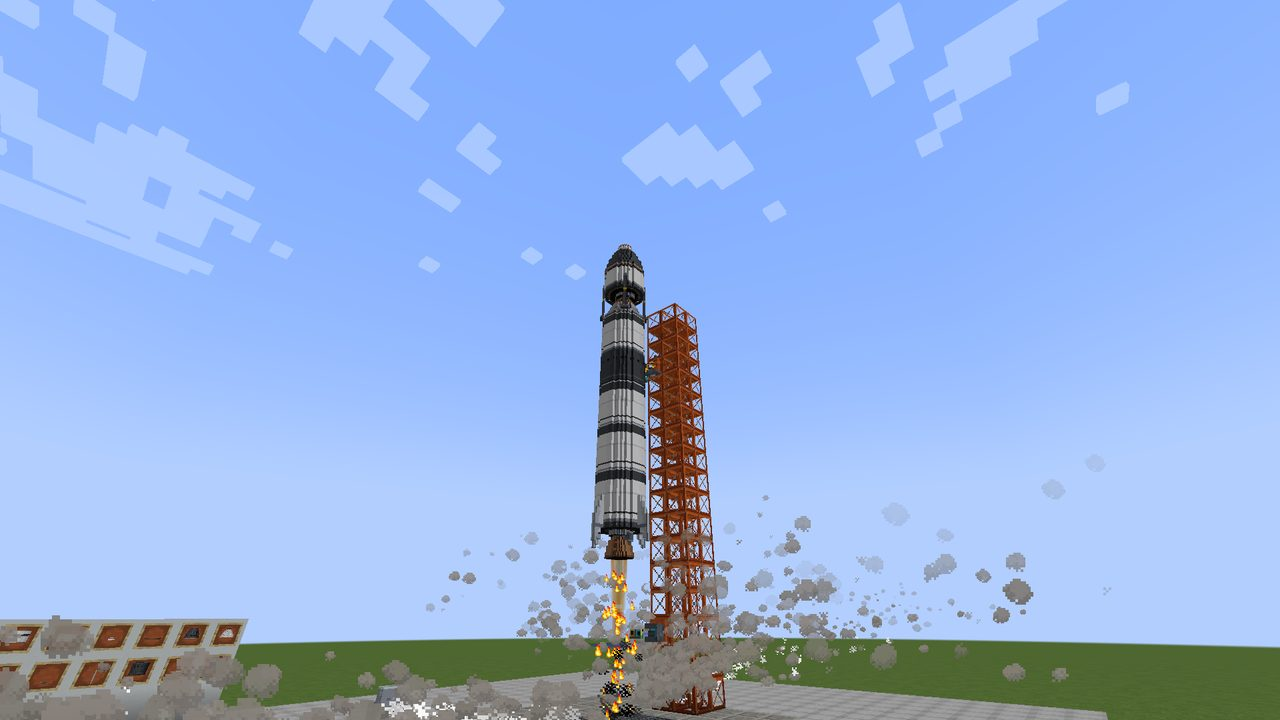
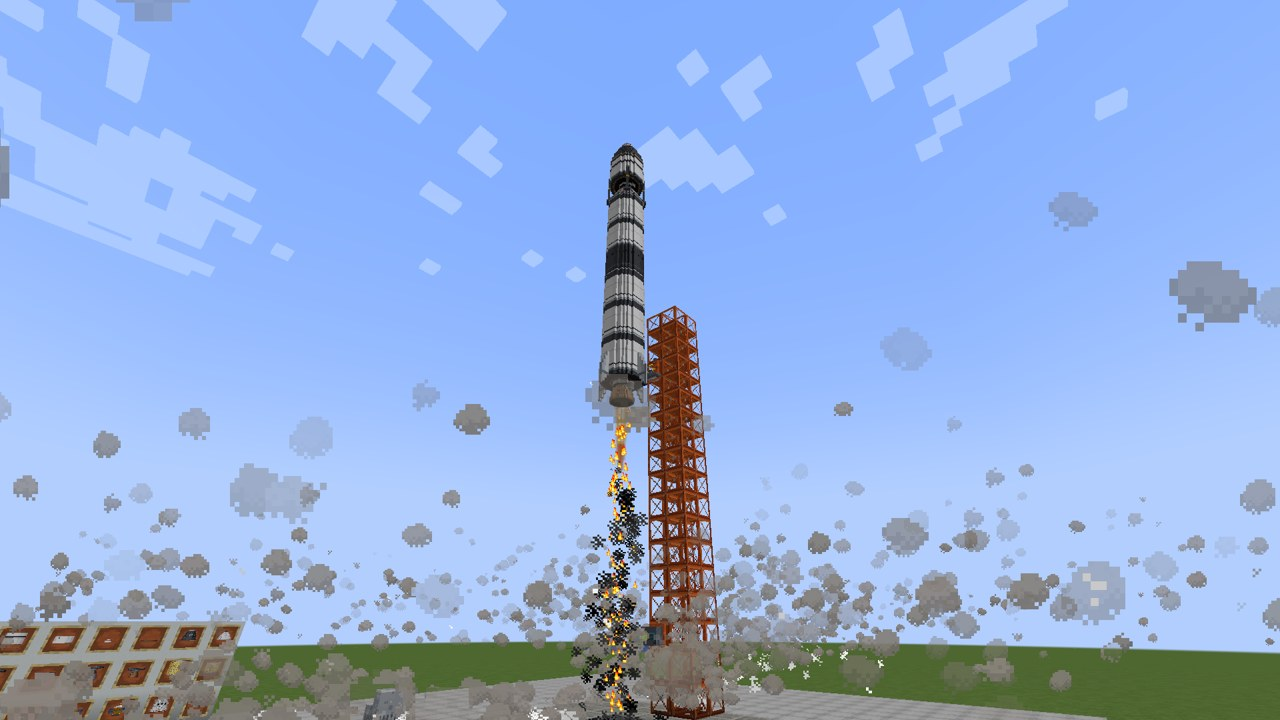
Rocketry: launch drama (pad steam, thrust shake, max-Q, staging jolt, rising roar)
- Engines lit on the pad flash the deluge to steam: billowing smoke and white puffs
  that grow as the engines spool up.
- Camera shake follows thrust: spool-up rumble, a liftoff kick, rumble that fades
  with the air, a short shake through max-Q and a jolt plus a ring of smoke at each
  stage separation. Off with the cinematic camera setting.
- Engine roar builds through the spool-up and fades as the air thins.
- The smoke column trails the rocket instead of rising above the nose.
- Fix: locations were compared by identity on the client, so Earth was treated as
  airless and launch smoke, steam, LOX venting and ground shake never showed.
- Showcase: ignition, liftoff and ascent shots retaken; launch before/after sheet.

diff --git a/src/main/java/com/pizzaparker07/spacebreaker/client/rocketry/RocketClientEvents.java b/src/main/java/com/pizzaparker07/spacebreaker/client/rocketry/RocketClientEvents.java
@@ -73,18 +73,17 @@ public final class RocketClientEvents {
                 continue;
             }
             effects(level, rocket, quality);
+            staging(level, rocket, rocket == ridden, quality);
             loop(mc, rocket, SOUNDS, EngineSound.Kind.ENGINE);
             loop(mc, rocket, ENTRY_SOUNDS, EngineSound.Kind.REENTRY);
             if (rocket.burning()) {
                 boolean riding = rocket == ridden;
                 double ground = level.getHeight(Heightmap.Types.MOTION_BLOCKING, rocket.getBlockX(), rocket.getBlockZ());
-                boolean nearGround = rocket.getY() - ground < 60 && rocket.location() == Location.EARTH_SURFACE;
-                float s = riding ? (rocket.state() == FlightState.ASCENT && rocket.timer() < 300 ? 1.2F : 0.5F) : 0;
-                if (nearGround) {
-                    s = Math.max(s, (float) Mth.clamp(1.4 - dist / 60.0, 0, 1.4));
-                }
-                if (rocket.state() == FlightState.COUNTDOWN) {
-                    s *= 0.6F;
+                boolean nearGround = rocket.getY() - ground < 60 && Location.EARTH_SURFACE.equals(rocket.location());
+                float s = riding ? rideShake(rocket) : 0;
+                if (nearGround && !riding) {
+                    // the ground shakes for everyone near the pad
+                    s = Math.max(s, (float) Mth.clamp(1.4 - dist / 60.0, 0, 1.4) * (rocket.state() == FlightState.COUNTDOWN ? 0.6F : 1F));
                 }
                 if (!rocket.location().equals(Location.EARTH_SURFACE) && !riding) {
                     s = 0;
@@ -95,10 +94,61 @@ public final class RocketClientEvents {
                 targetShake = Math.max(targetShake, 1.0F);
             }
         }
-        shake = Mth.lerp(0.2F, shake, targetShake);
+        if (jolt > 0) {
+            targetShake = Math.max(targetShake, 1.3F * jolt / JOLT_TICKS);
+            jolt--;
+        }
+        shake = Mth.lerp(0.25F, shake, targetShake);
         SOUNDS.values().removeIf(EngineSound::isStopped);
         ENTRY_SOUNDS.values().removeIf(EngineSound::isStopped);
         MissionVoice.tick(ridden);
+    }
+
+    /** Ticks a staging jolt lasts. */
+    private static final int JOLT_TICKS = 10;
+    private static int jolt;
+    private static final java.util.Map<Integer, Integer> STAGES = new java.util.HashMap<>();
+
+    /**
+     * How hard the ride shakes the crew: the engines spooling up on the pad, a hard kick at liftoff, a rumble that
+     * follows the thrust and fades as the air thins, and a short buffet through maximum dynamic pressure.
+     */
+    static float rideShake(RocketEntity rocket) {
+        FlightState st = rocket.state();
+        float air = Location.EARTH_SURFACE.equals(rocket.location()) || rocket.location().atmosphere() && !rocket.location().orbit()
+                ? 1F - spaceFactor() : 0F;
+        if (st == FlightState.COUNTDOWN) {
+            float spool = Mth.clamp((RocketEntity.IGNITION_TICKS - rocket.timer()) / (float) RocketEntity.IGNITION_TICKS, 0, 1);
+            return 0.15F + 0.55F * spool;
+        }
+        if (st == FlightState.ASCENT) {
+            float t = rocket.timer();
+            float liftoff = 1.5F * (float) Math.exp(-t / 40.0);
+            float rumble = 0.15F + 0.45F * air;
+            float p = rocket.ascentProgress();
+            float maxQ = air > 0 ? 0.9F * (float) Math.exp(-Math.pow((p - 0.3) / 0.05, 2)) : 0F;
+            return Math.max(liftoff, rumble + maxQ);
+        }
+        return 0.3F; // other burns: a steady push
+    }
+
+    /** A spent stage falls away: a ring of smoke where it separated, and a jolt for the crew. */
+    private static void staging(ClientLevel level, RocketEntity rocket, boolean ridden, int quality) {
+        int stage = rocket.activeStage();
+        Integer before = STAGES.put(rocket.getId(), stage);
+        if (before == null || stage <= before || rocket.state() != FlightState.ASCENT && rocket.state() != FlightState.ORBIT) {
+            return;
+        }
+        if (ridden) {
+            jolt = JOLT_TICKS;
+        }
+        RandomSource rng = level.random;
+        for (int i = 0; i < 18 * quality; i++) {
+            double a = rng.nextDouble() * Math.PI * 2;
+            double v = 0.15 + rng.nextDouble() * 0.2;
+            level.addParticle(ParticleTypes.CLOUD, rocket.getX() + Math.cos(a) * 1.1, rocket.getY() - 0.3, rocket.getZ() + Math.sin(a) * 1.1,
+                    Math.cos(a) * v, -0.05, Math.sin(a) * v);
+        }
     }
 
     private static void loop(Minecraft mc, RocketEntity rocket, java.util.Map<Integer, EngineSound> playing, EngineSound.Kind kind) {
@@ -118,7 +168,7 @@ public final class RocketClientEvents {
         FlightState state = rocket.state();
         RocketGeometry geo = rocket.geometry();
         double x = rocket.getX(), y = rocket.getY(), z = rocket.getZ();
-        boolean airless = rocket.location() != Location.EARTH_SURFACE;
+        boolean airless = !Location.EARTH_SURFACE.equals(rocket.location());
         // LOX boil-off from a fuelled rocket waiting on Earth
         if ((state == FlightState.IDLE || state == FlightState.COUNTDOWN) && !airless && rocket.fuelFraction() > 0.05 && rng.nextInt(4) == 0) {
             double h = rng.nextDouble() * geo.payloadBottom() / 16.0;
@@ -128,6 +178,20 @@ public final class RocketClientEvents {
         }
         if (!rocket.burning()) {
             return;
+        }
+        // engines lit on the pad: the water deluge flashes to steam, billowing out and up around the pad
+        if (state == FlightState.COUNTDOWN && !airless) {
+            float spool = Mth.clamp((RocketEntity.IGNITION_TICKS - rocket.timer()) / (float) RocketEntity.IGNITION_TICKS, 0, 1);
+            for (int i = 0; i < quality * (2 + (int) (6 * spool)); i++) {
+                double a = rng.nextDouble() * Math.PI * 2;
+                double r = 1.2 + rng.nextDouble() * 2.0;
+                double v = 0.12 + rng.nextDouble() * 0.25 * (0.4 + spool);
+                // big, slow billows (campfire smoke lives long and grows) and quick white puffs of steam
+                level.addAlwaysVisibleParticle(ParticleTypes.CAMPFIRE_COSY_SMOKE, true, x + Math.cos(a) * r, y + 0.3 + rng.nextDouble(),
+                        z + Math.sin(a) * r, Math.cos(a) * v, 0.02 + rng.nextDouble() * 0.06, Math.sin(a) * v);
+                level.addParticle(ParticleTypes.CLOUD, x + Math.cos(a) * r, y + rng.nextDouble() * 1.5, z + Math.sin(a) * r,
+                        Math.cos(a) * v * 1.5, 0.05 + rng.nextDouble() * 0.1, Math.sin(a) * v * 1.5);
+            }
         }
         double tilt = Math.toRadians(rocket.tilt());
         double bx = x - Math.sin(tilt) * 0.2, by = y - 0.2;
@@ -157,9 +221,10 @@ public final class RocketClientEvents {
             level.addParticle(ParticleTypes.LARGE_SMOKE, bx + rng.nextGaussian() * 0.4, by - 2 - rng.nextDouble() * 3, z + rng.nextGaussian() * 0.4,
                     rng.nextGaussian() * 0.05, -0.2, rng.nextGaussian() * 0.05);
         }
-        if (rng.nextInt(2) == 0) {
-            level.addAlwaysVisibleParticle(ParticleTypes.CAMPFIRE_SIGNAL_SMOKE, true, bx + rng.nextGaussian() * 0.5, by - 3,
-                    z + rng.nextGaussian() * 0.5, rng.nextGaussian() * 0.02, 0.02, rng.nextGaussian() * 0.02);
+        // a lingering column left behind the climbing rocket (slow smoke, so it cannot overtake the nose)
+        if (h > 6 && rng.nextInt(2) == 0) {
+            level.addAlwaysVisibleParticle(ParticleTypes.CAMPFIRE_COSY_SMOKE, true, bx + rng.nextGaussian() * 0.5, by - 4,
+                    z + rng.nextGaussian() * 0.5, rng.nextGaussian() * 0.03, -0.05, rng.nextGaussian() * 0.03);
         }
         // the launch cloud: exhaust deflected sideways along the flame trench
         if (h < 30) {

diff --git a/src/main/java/com/pizzaparker07/spacebreaker/client/rocketry/RocketRenderer.java b/src/main/java/com/pizzaparker07/spacebreaker/client/rocketry/RocketRenderer.java
@@ -52,7 +52,7 @@ public class RocketRenderer extends EntityRenderer<RocketEntity> {
         int skipFrom = cockpit && rocket.layout().payload().present() ? rocket.layout().payload().firstPart() : Integer.MAX_VALUE;
         RocketStackRenderer.render(rocket.layout(), geo, pose, buffers, light, legs, skipFrom);
         if (rocket.burning()) {
-            boolean vacuum = rocket.location() != Location.EARTH_SURFACE || rocket.getY() > 400;
+            boolean vacuum = !Location.EARTH_SURFACE.equals(rocket.location()) || rocket.getY() > 400;
             float strength = state == FlightState.COUNTDOWN ? Mth.clamp((RocketEntity.IGNITION_TICKS - rocket.timer() + partialTick) / 30F, 0.15F, 1F)
                     : state == FlightState.DESCENT ? 0.65F : 1F;
             // the plume writes no depth: with a shader pack and our sky it is drawn after the sky (LateEffects)
@@ -72,8 +72,8 @@ public class RocketRenderer extends EntityRenderer<RocketEntity> {
     private static float legDeploy(RocketEntity rocket, float partialTick) {
         return switch (rocket.state()) {
             case DESCENT -> Mth.clamp((rocket.timer() + partialTick - 40) / 40F, 0F, 1F);
-            case IDLE -> rocket.location() == Location.MOON_SURFACE || rocket.activeStage() > 0 ? 1F : 0F;
-            case COUNTDOWN, ASCENT -> rocket.location() == Location.MOON_SURFACE ? Math.max(0F, 1F - (rocket.timer() > 0 && rocket.state() == FlightState.ASCENT ? rocket.timer() / 40F : 0F)) : 0F;
+            case IDLE -> Location.MOON_SURFACE.equals(rocket.location()) || rocket.activeStage() > 0 ? 1F : 0F;
+            case COUNTDOWN, ASCENT -> Location.MOON_SURFACE.equals(rocket.location()) ? Math.max(0F, 1F - (rocket.timer() > 0 && rocket.state() == FlightState.ASCENT ? rocket.timer() / 40F : 0F)) : 0F;
             default -> 0F;
         };
     }

diff --git a/src/testmod/java/com/pizzaparker07/spacebreaker/testmod/showcase/RocketryScenario.java b/src/testmod/java/com/pizzaparker07/spacebreaker/testmod/showcase/RocketryScenario.java
@@ -258,14 +258,14 @@ final class RocketryScenario implements ShowcaseScenario {
                         p.openMenu(be, CONSOLE);
                     }
                 }, null));
-        s.add(new Shot("07_ignition", 6000, 14.5, G + 3, -12.5, 50F, -24F, true, fp, 180,
+        s.add(new Shot("07_ignition", 6000, 14.5, G + 3, -12.5, 50F, -24F, true, fp, 190,
                 p -> {
                     p.closeContainer();
                     padRocket.fillCompletely();
                     padRocket.tryStartCountdown(null);
                 }, null));
         s.add(new Shot("08_liftoff", 6000, 14.5, G + 3, -12.5, 50F, -30F, true, fp, 60, null, null));
-        s.add(new Shot("09_ascent", 6000, 16.5, G + 2, -16.5, 45F, -62F, true, fp, 90, null, null));
+        s.add(new Shot("09_ascent", 6000, 16.5, G + 2, -16.5, 45F, -66F, true, fp, 35, null, null));
         s.add(new Shot("10_earth_orbit", 6000, 0, 0, 0, 0F, 0F, true, fp, 120,
                 p -> {
                     clearScene(p);

diff --git a/src/main/java/com/pizzaparker07/spacebreaker/client/rocketry/EngineSound.java b/src/main/java/com/pizzaparker07/spacebreaker/client/rocketry/EngineSound.java
@@ -55,6 +55,15 @@ public class EngineSound extends AbstractTickableSoundInstance {
         float target;
         if (kind == Kind.ENGINE) {
             target = riding ? (vacuum ? 0.35F : 1.0F) : (vacuum ? 0F : 1.6F);
+            if (!vacuum) {
+                if (rocket.state() == FlightState.COUNTDOWN) {
+                    // engines spooling up on the pad: the roar builds
+                    target *= 0.35F + 0.65F * Mth.clamp((RocketEntity.IGNITION_TICKS - rocket.timer()) / (float) RocketEntity.IGNITION_TICKS, 0, 1);
+                } else if (rocket.state() == FlightState.ASCENT) {
+                    // loudest just after liftoff, then thinner and quieter as the air runs out
+                    target *= (1.15F - 0.75F * RocketClientEvents.spaceFactor());
+                }
+            }
             // more thrust: a deeper roar
             RocketLayout l = rocket.layout();
             int s = Math.min(rocket.activeStage(), l.stages().size() - 1);

diff --git a/src/main/java/com/pizzaparker07/spacebreaker/client/rocketry/RocketHud.java b/src/main/java/com/pizzaparker07/spacebreaker/client/rocketry/RocketHud.java
@@ -207,7 +207,7 @@ public final class RocketHud {
             int hy = g.guiHeight() - 72;
             g.drawCenteredString(font, hint, w / 2, hy, 0xFFFFFF);
         }
-        if (s == FlightState.IDLE && here != Location.EARTH_SURFACE) {
+        if (s == FlightState.IDLE && !Location.EARTH_SURFACE.equals(here)) {
             g.drawCenteredString(font, Component.translatable("hud.spacebreaker.hint.map", RocketryClient.STAR_MAP.getTranslatedKeyMessage()),
                     w / 2, g.guiHeight() - 82, 0xC0C8D0);
         }
